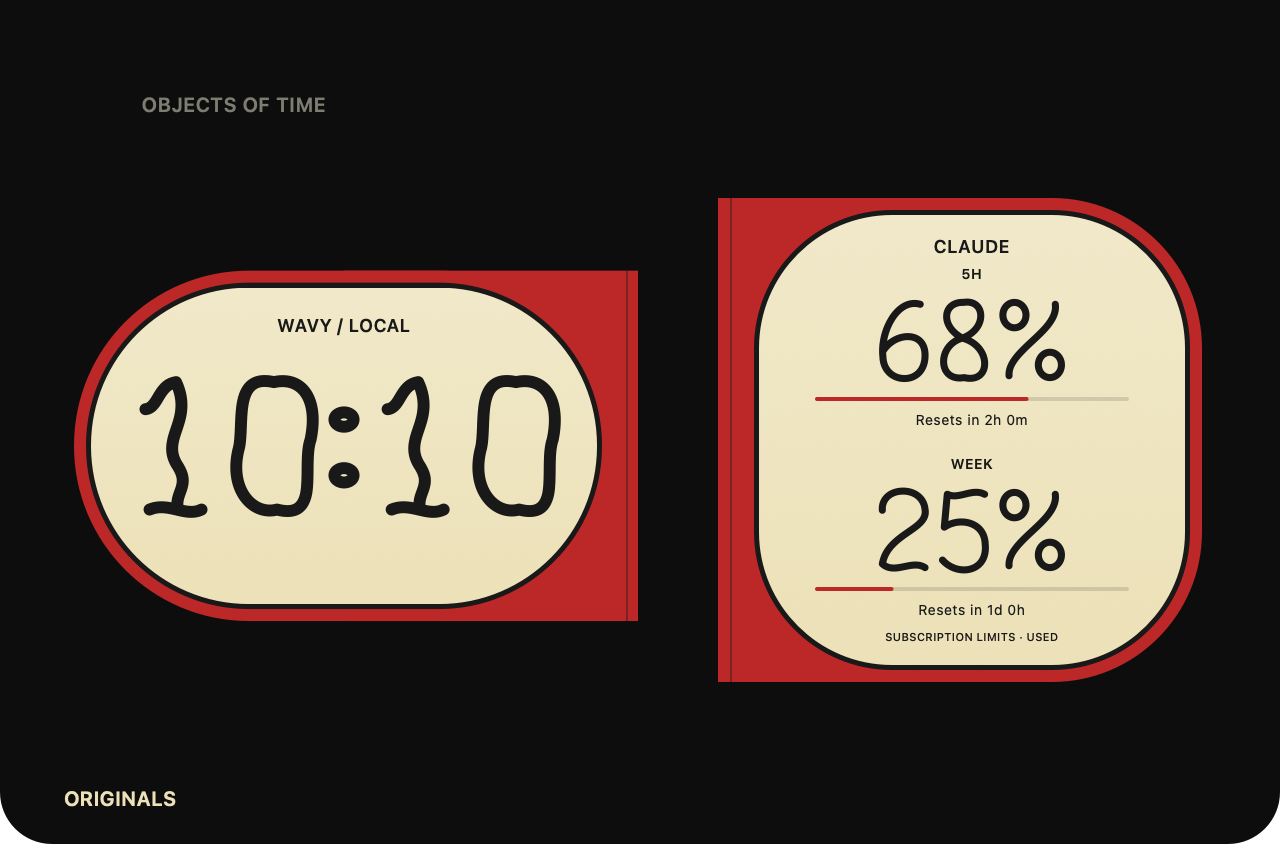
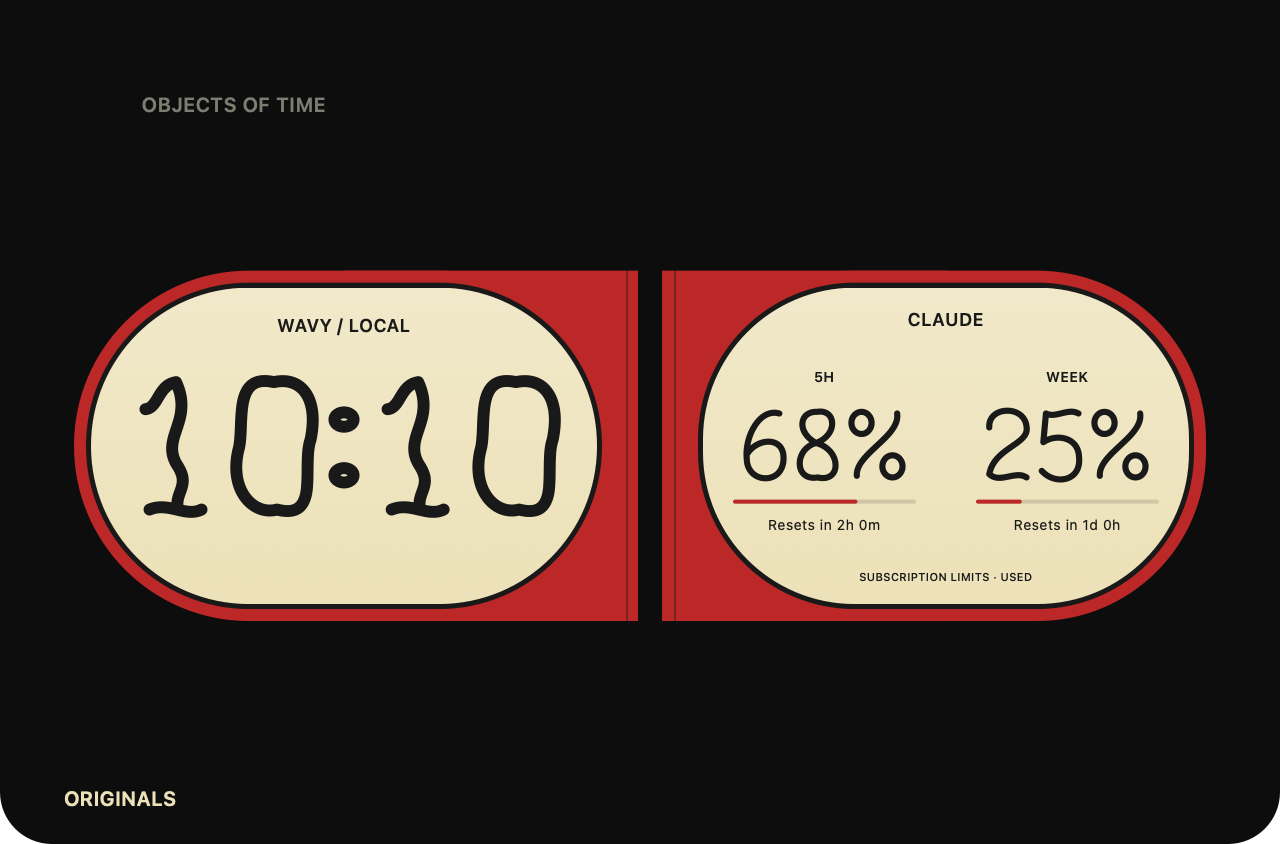
Fix: Match right-side widgets to the clock capsule
Trim the tall right-side housing so calendar and usage desks align with the digital clock and share its horizontal proportions.

Key changes include:

- Centralize the shared widget capsule body and align expanded widget frames.
- Arrange five-hour and weekly usage side by side with small reset details.
- Keep the calendar date centered between weekday and month labels.
- Refresh native theme previews and document the trimmed layout.

Changed region(s): [[0.5, 0.2156, 0.9375, 0.8318]]

diff --git a/Sources/NotchClock/UsageWidgetView.swift b/Sources/NotchClock/UsageWidgetView.swift
@@ -29,7 +29,7 @@ final class UsageWidgetView: WidgetSurfaceView {
     override func draw(_ dirtyRect: NSRect) {
         let p = expansionProgress
         let details = max(0, (p - 0.7) / 0.3)
-        let dial = drawThemeHousing(in: bounds.insetBy(dx: mix(0.5, 4, p), dy: mix(0.5, 12, p)),
+        let dial = drawThemeHousing(in: housingBody,
                                     palette: palette, accent: accent, progress: p, mountOnLeft: true)
         drawText(provider.title.uppercased(),
                  at: NSRect(x: dial.minX, y: dial.minY + mix(0, 10, p), width: dial.width, height: mix(6, 13, p)),
@@ -39,19 +39,19 @@ final class UsageWidgetView: WidgetSurfaceView {
             let valid = window.map { !$0.isExpired(at: date) } ?? false
             let value = valid ? window.map { "\(Int($0.usedPercent))%" } ?? "--" : "--"
             let compactX = dial.minX + CGFloat(index) * dial.width / 2
-            let y = dial.minY + 38 + CGFloat(index) * 95
+            let columnX = dial.minX + CGFloat(index) * dial.width / 2
             let number = mix(NSRect(x: compactX + 3, y: dial.midY - 2, width: dial.width / 2 - 6, height: 11),
-                             NSRect(x: dial.minX + 27, y: y, width: dial.width - 54, height: 49), p)
+                             NSRect(x: columnX + 8, y: dial.minY + 57, width: dial.width / 2 - 16, height: 43), p)
             if valid { drawThemeNumber(value, in: number, family: visualFamily, palette: palette) }
             else {
                 drawText(value, at: number, font: .systemFont(ofSize: mix(10, 38, p), weight: .medium), color: palette.ink)
             }
             let title = index == 0 ? "5H" : "WEEK"
             let label = mix(NSRect(x: compactX + 2, y: dial.minY + 6, width: dial.width / 2 - 4, height: 6),
-                            NSRect(x: dial.minX + 10, y: y - 13, width: dial.width - 20, height: 11), p)
+                            NSRect(x: columnX + 4, y: dial.minY + 40, width: dial.width / 2 - 8, height: 11), p)
             drawText(title, at: label, font: .systemFont(ofSize: mix(4, 7, p), weight: .semibold), color: palette.ink)
             let track = mix(NSRect(x: compactX + 6, y: dial.maxY - 3, width: dial.width / 2 - 12, height: 1),
-                            NSRect(x: dial.minX + 28, y: y + 53, width: dial.width - 56, height: 2), p)
+                            NSRect(x: columnX + 15, y: dial.minY + 106, width: dial.width / 2 - 30, height: 2), p)
             palette.ink.withAlphaComponent(0.14).setFill()
             NSBezierPath(roundedRect: track, xRadius: 1, yRadius: 1).fill()
             if let window, valid {
@@ -63,7 +63,7 @@ final class UsageWidgetView: WidgetSurfaceView {
             if let window {
                 detail = valid ? window.resetDescription(at: date).map { "Resets in " + $0 } ?? "Reset time unavailable" : "Reset · awaiting data"
             } else { detail = snapshot == nil ? "Not connected" : "Usage unavailable" }
-            drawText(detail, at: NSRect(x: dial.minX + 14, y: y + 60, width: dial.width - 28, height: 11),
+            drawText(detail, at: NSRect(x: columnX + 5, y: dial.minY + 114, width: dial.width / 2 - 10, height: 11),
                      font: .systemFont(ofSize: 7), color: palette.ink.withAlphaComponent(details))
         }
         let status = snapshot?.isStale(at: date) == true ? "STALE · REFRESH NEEDED" : "SUBSCRIPTION LIMITS · USED"

diff --git a/Sources/NotchClock/DateWidgetView.swift b/Sources/NotchClock/DateWidgetView.swift
@@ -15,27 +15,23 @@ final class DateWidgetView: WidgetSurfaceView {
     }
     override func draw(_ dirtyRect: NSRect) {
         let p = expansionProgress
-        let dial = drawThemeHousing(in: bounds.insetBy(dx: mix(0.5, 4, p), dy: mix(0.5, 12, p)),
+        let dial = drawThemeHousing(in: housingBody,
                                     palette: palette, accent: accent, progress: p, mountOnLeft: true)
         let day = String(Calendar.current.component(.day, from: date))
-        let numberHeight = mix(20, min(96, dial.height * 0.42), p)
-        let numberWidth = mix(26, dial.width * 0.62, p)
-        let number = NSRect(x: dial.midX - numberWidth / 2, y: dial.midY - numberHeight / 2 - 6 * p,
+        let numberHeight = mix(20, min(76, dial.height * 0.42), p)
+        let numberWidth = mix(26, dial.width * 0.35, p)
+        let number = NSRect(x: dial.midX - numberWidth / 2, y: dial.midY - numberHeight / 2,
                             width: numberWidth, height: numberHeight)
         drawThemeNumber(day, in: number, family: visualFamily, palette: palette)
         let weekday = mix(NSRect(x: dial.minX + 2, y: dial.midY - 5, width: 27, height: 12),
-                          NSRect(x: dial.minX + 10, y: number.minY - 22, width: dial.width - 20, height: 17), p)
-        var weekdayFrame = weekday
-        weekdayFrame.origin.y = mix(dial.midY - 5, number.minY - 22, min(1, p * 3))
-        drawText(string("EEE").uppercased(), at: weekdayFrame,
+                          NSRect(x: dial.minX + 8, y: dial.midY - 7, width: 58, height: 17), p)
+        drawText(string("EEE").uppercased(), at: weekday,
                  font: .systemFont(ofSize: mix(7, 11, p), weight: .semibold), color: palette.ink)
         let month = mix(NSRect(x: dial.maxX - 29, y: dial.midY - 5, width: 27, height: 12),
-                        NSRect(x: dial.minX + 10, y: number.maxY + 16, width: dial.width - 20, height: 20), p)
-        var monthFrame = month
-        monthFrame.origin.y = mix(dial.midY - 5, number.maxY + 16, min(1, p * 3))
-        drawText(string("MMM").uppercased(), at: monthFrame,
+                        NSRect(x: dial.maxX - 66, y: dial.midY - 7, width: 58, height: 20), p)
+        drawText(string("MMM").uppercased(), at: month,
                  font: .systemFont(ofSize: mix(7, 13, p), weight: .semibold), color: palette.ink)
-        drawText(string("y"), at: NSRect(x: dial.minX, y: monthFrame.maxY + 7, width: dial.width, height: 15),
+        drawText(string("y"), at: NSRect(x: dial.minX, y: number.maxY + 7, width: dial.width, height: 15),
                  font: .systemFont(ofSize: 10, weight: .medium), color: palette.ink.withAlphaComponent(max(0, (p - 0.7) / 0.3)))
     }
 }

diff --git a/Sources/NotchClock/ClockContentView.swift b/Sources/NotchClock/ClockContentView.swift
@@ -127,8 +127,8 @@ final class ClockContentView: NSView {
         let scale = min(1, bounds.width / 640)
         clock.frame = mix(left, NSRect(x: 32 * scale, y: barHeight + 42,
                                       width: 292 * scale, height: 292), progress)
-        widget.frame = mix(right, NSRect(x: 355 * scale, y: barHeight + 55,
-                                        width: 250 * scale, height: 266), progress)
+        widget.frame = mix(right, NSRect(x: 326 * scale, y: barHeight + 42,
+                                        width: 282 * scale, height: 292), progress)
     }
     override func draw(_ dirtyRect: NSRect) {
         let radius = min(mix(barHeight / 2, 26, progress), bounds.height / 2)

diff --git a/Sources/NotchClock/WidgetDesign.swift b/Sources/NotchClock/WidgetDesign.swift
@@ -30,6 +30,13 @@ class WidgetSurfaceView: NotchItemView {
     }
     required init?(coder: NSCoder) { fatalError("init(coder:) has not been implemented") }
 
+    // Keep the right-side objects on the digital clock's horizontal capsule baseline.
+    var housingBody: NSRect {
+        mix(bounds.insetBy(dx: 0.5, dy: 0.5),
+            NSRect(x: 5, y: bounds.height * 0.21, width: bounds.width - 10, height: bounds.height * 0.60),
+            expansionProgress)
+    }
+
     func updateAccessibility() { }
 }
 

diff --git a/docs/RIGHT_SIDE_WIDGETS.md b/docs/RIGHT_SIDE_WIDGETS.md
@@ -105,7 +105,7 @@ The widget-only Desk Widgets example was also installed through the native file 
 
 ## Provider-specific desks
 
-Choose **Codex Desk** or **Claude Desk** from **Settings → Right side** or the **Right-side Widgets** menu. A desk shows only its selected provider. Both compact and expanded layouts have separate 5H and WEEK slots; the expanded percentages are the dominant text, with smaller window labels, reset times, and connection/freshness details. Existing hover morphing and theme recipes apply to both desks.
+Choose **Codex Desk** or **Claude Desk** from **Settings → Right side** or the **Right-side Widgets** menu. A desk shows only its selected provider. Both compact and expanded layouts have side-by-side 5H and WEEK slots; the expanded percentages are the dominant text, with smaller window labels, reset times, and connection/freshness details. Existing hover morphing and theme recipes apply to both desks.
 
 The two slots match 300-minute and 10,080-minute windows exactly. Missing and expired windows show `--` rather than substituting another window or provider. The accessibility description and tooltip identify the selected provider, unavailable slots, stale data, and reset times.
 
@@ -118,3 +118,5 @@ Provider desk previews below use synthetic sample data.
 ![Codex desk with five-hour and weekly limits](previews/wavy-usage-expanded.png)
 
 ![Claude desk with five-hour and weekly limits](previews/claude-usage-expanded.png)
+
+The expanded calendar and provider desks use horizontal capsules aligned to the digital clock housing. The excess vertical housing is removed; the calendar date stays centered, and usage percentages share one row with smaller reset details underneath. Both widgets retain the same compact geometry and hover morph.
